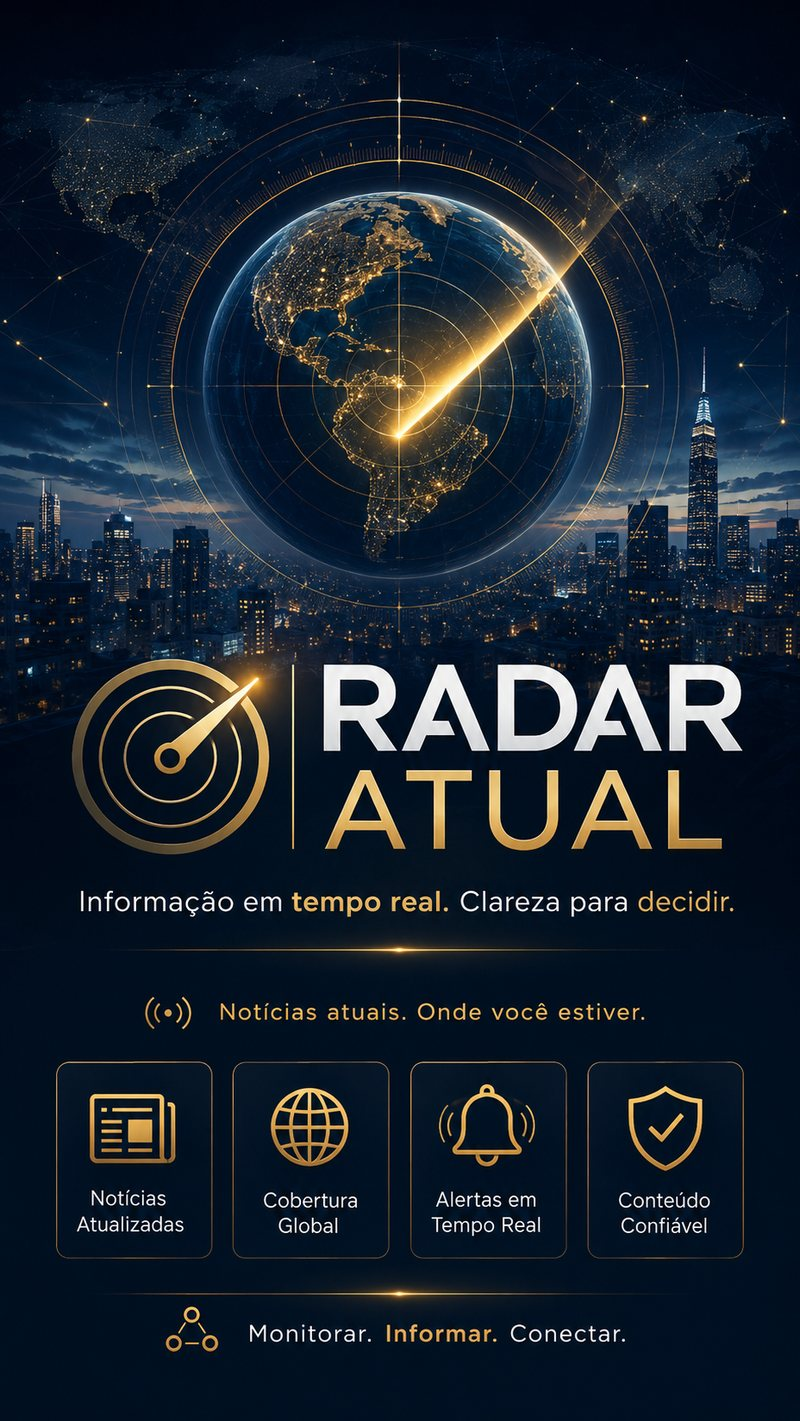
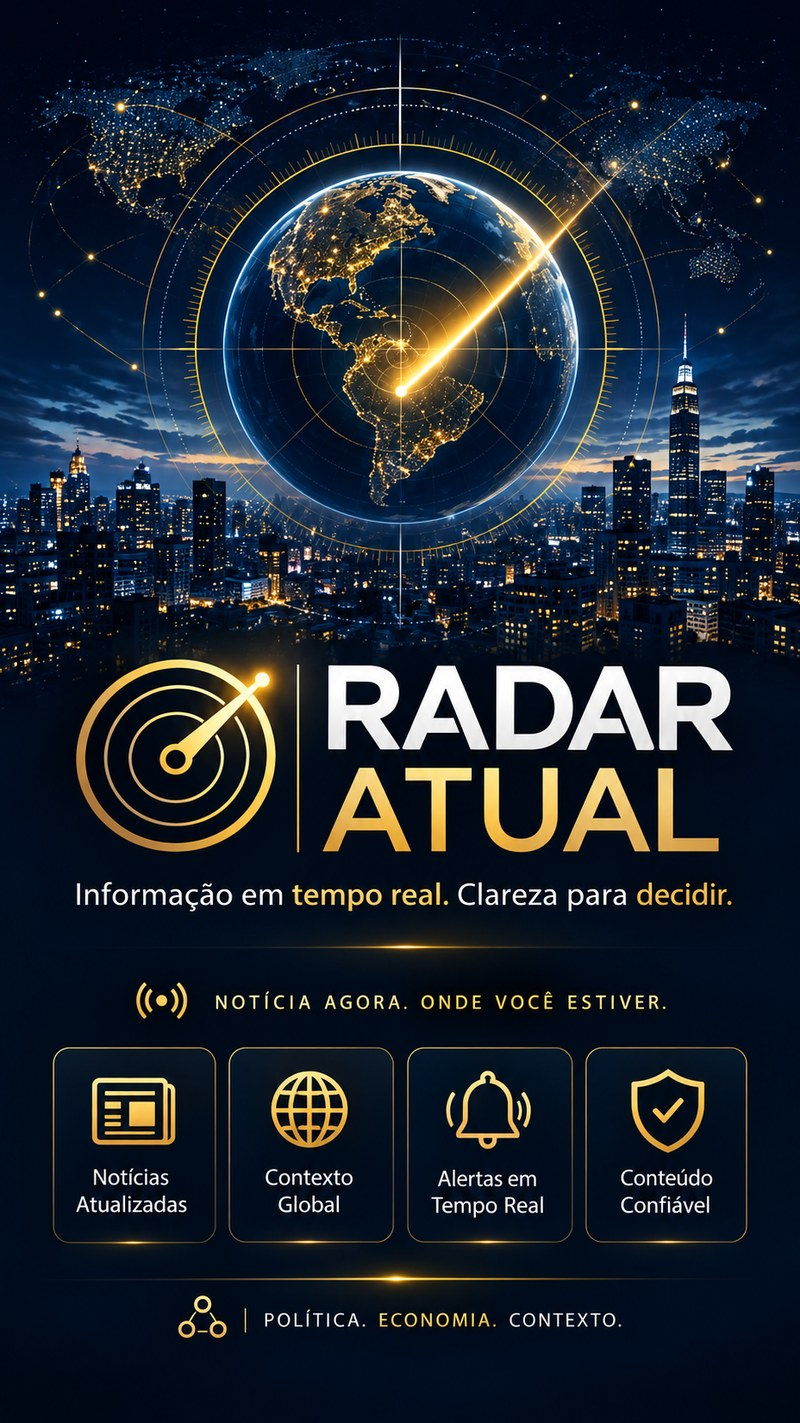
Capa de abertura nova (RADAR CAPA do Elias), faixas de cor acertadas para a borda dela; antiga guardada em D:\BACKUP\capa-radar-antiga (v250)

diff --git a/public/index.html b/public/index.html
@@ -12,8 +12,8 @@
 <link rel="manifest" href="/manifest.json">
 <link rel="preconnect" href="https://fonts.googleapis.com"><link rel="preconnect" href="https://fonts.gstatic.com" crossorigin>
 <link href="https://fonts.googleapis.com/css2?family=Lora:ital,wght@0,400;0,500;0,600;1,400&family=Playfair+Display:wght@600;700;800&display=swap" rel="stylesheet">
-<link rel="stylesheet" href="/assets/radar.css?v=249">
-<link rel="preload" as="script" href="/assets/app.js?v=249">
+<link rel="stylesheet" href="/assets/radar.css?v=250">
+<link rel="preload" as="script" href="/assets/app.js?v=250">
 <script>
 /* ── A PELE DA HOME (bege ou azul) ──────────────────────────────────────────
    Isto roda AQUI NO <head>, antes de o navegador pintar qualquer coisa.
@@ -50,7 +50,7 @@
 
 <!-- SPLASH -->
 <div class="tela ativa" id="splash" onclick="irHome()">
-  <img src="/capa.jpg" alt="RADAR ATUAL" fetchpriority="high" decoding="async">
+  <img src="/capa.jpg?v=20261020" alt="RADAR ATUAL" fetchpriority="high" decoding="async">
 </div>
 
 <!-- ══ VITRINE 3×3 — NOVO VISUAL DA HOME (azul claro + dourado) ══ -->
@@ -1008,7 +1008,7 @@
   </div>
 </div>
 
-<script src="/assets/app.js?v=249"></script>
+<script src="/assets/app.js?v=250"></script>
 
 <!-- REF SHEET -->
 <div id="ref-overlay" onclick="fecharRefSheet()" style="display:none;position:fixed;inset:0;z-index:900;background:rgba(0,0,0,.45)"></div>
@@ -2007,6 +2007,6 @@ function compartilharApp(nome){
 </div>
 
 <script src="/assets/lupa.js?v=208"></script>
-<script src="/_uso.js?v=249" defer></script>
+<script src="/_uso.js?v=250" defer></script>
 </body>
 </html>

diff --git a/public/assets/radar.css b/public/assets/radar.css
@@ -17,7 +17,7 @@ html,body{height:100%;background:var(--bg);color:var(--txt);font-family:-apple-s
    larga que a tela do A22). Agora a MESMA capa, ampliada e desfocada, enche o fundo inteiro; a arte nítida fica por cima,
    inteira, sem cortar nenhum dos 4 cartões. As bordas da arte são azul-escuras, então a emenda não aparece. */
 #splash{position:fixed;overflow:hidden}
-#splash{background:linear-gradient(180deg,#000614 0%,#000614 30%,#000f20 70%,#000f20 100%)} /* as cores exatas da borda de cima e de baixo da arte: a emenda some */
+#splash{background:linear-gradient(180deg,#000616 0%,#000616 30%,#000919 70%,#000919 100%)} /* as cores exatas da borda de cima e de baixo da arte: a emenda some */
 #splash::before{content:none}
 
 /* ══ HOME ══ */

diff --git a/public/sw.js b/public/sw.js
@@ -1,4 +1,4 @@
-const V='radar-v249';               // cache do SHELL — troca a cada versão do app
+const V='radar-v250';               // cache do SHELL — troca a cada versão do app
 const PACOTE='radar-pacote-v1';     // pacote que o irmão baixou de propósito — NUNCA apagado ao subir versão
 // ⚠ 27/09/2026 — POR QUE ESTE CACHE EXISTE (bug real: "clico na mensagem e não abre"):
 // o `activate` apagava o cache da versão anterior a CADA subida de versão. Como as
